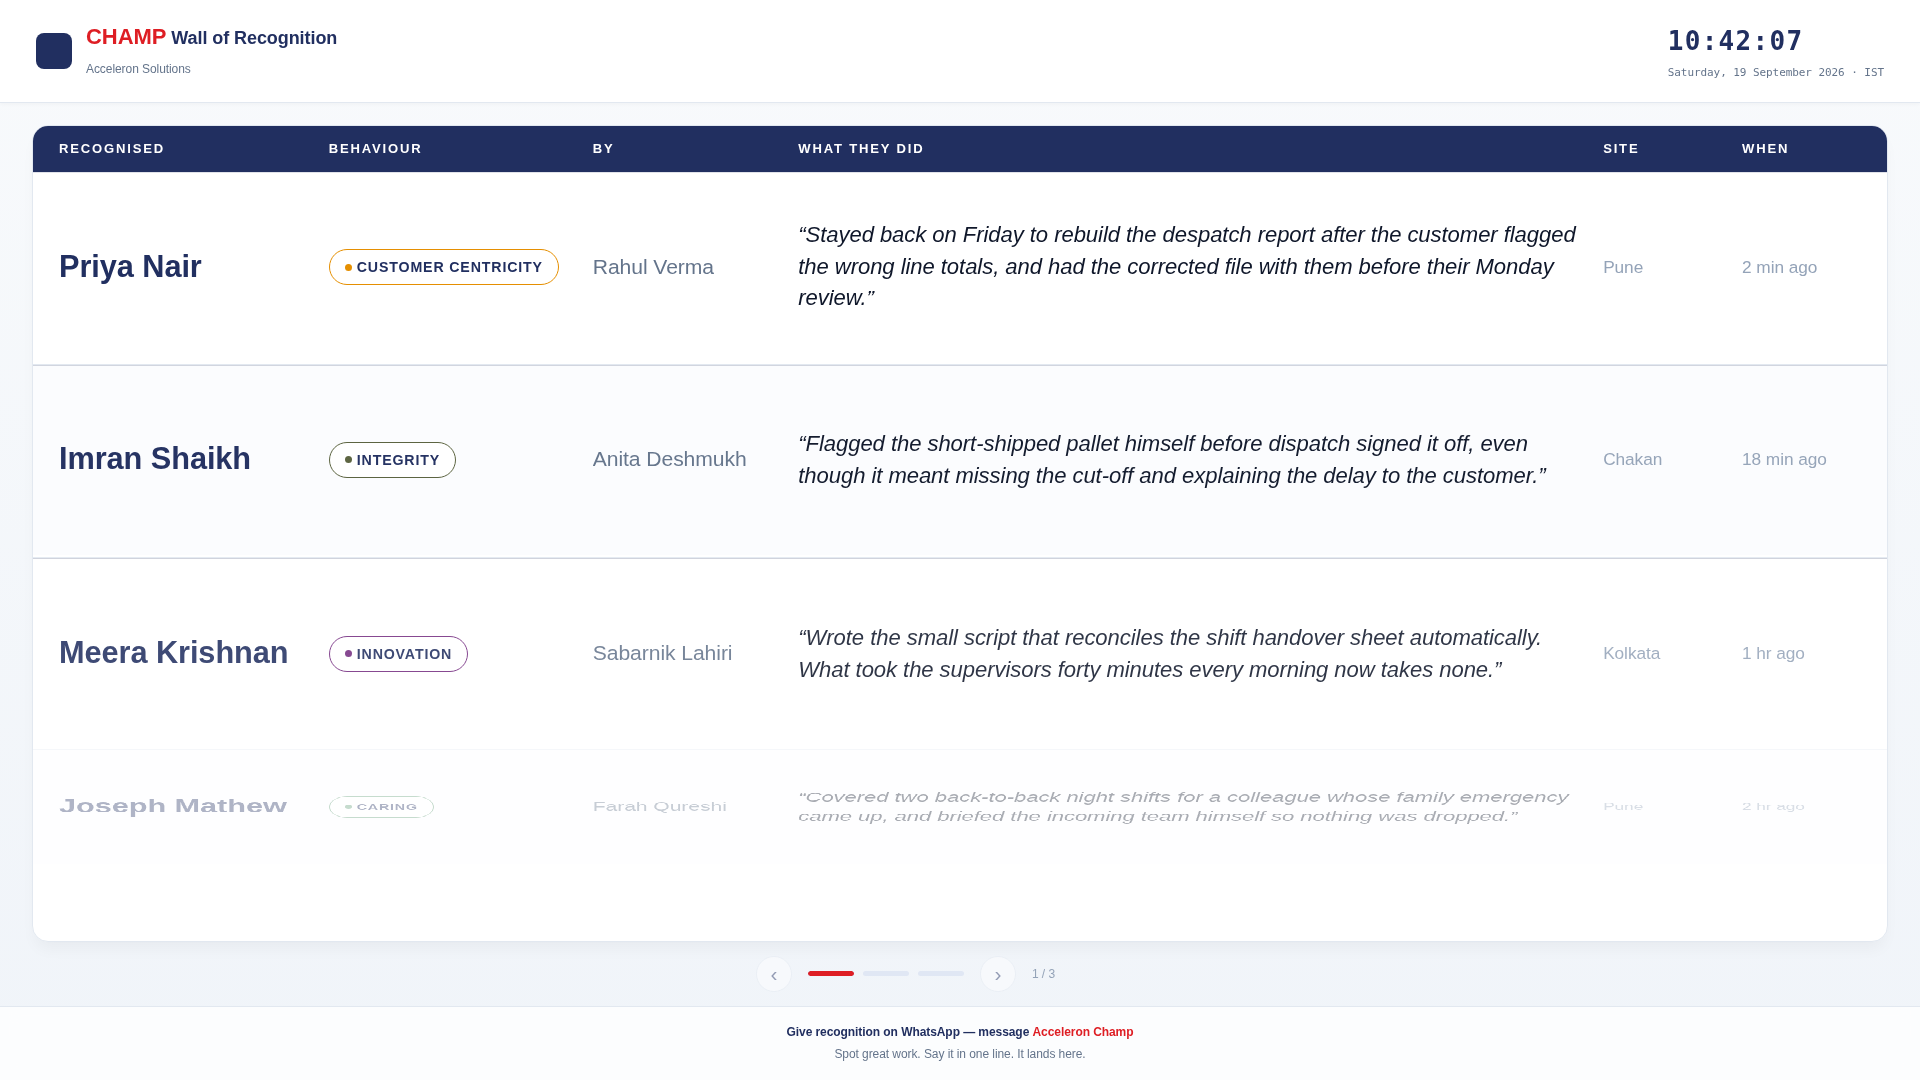
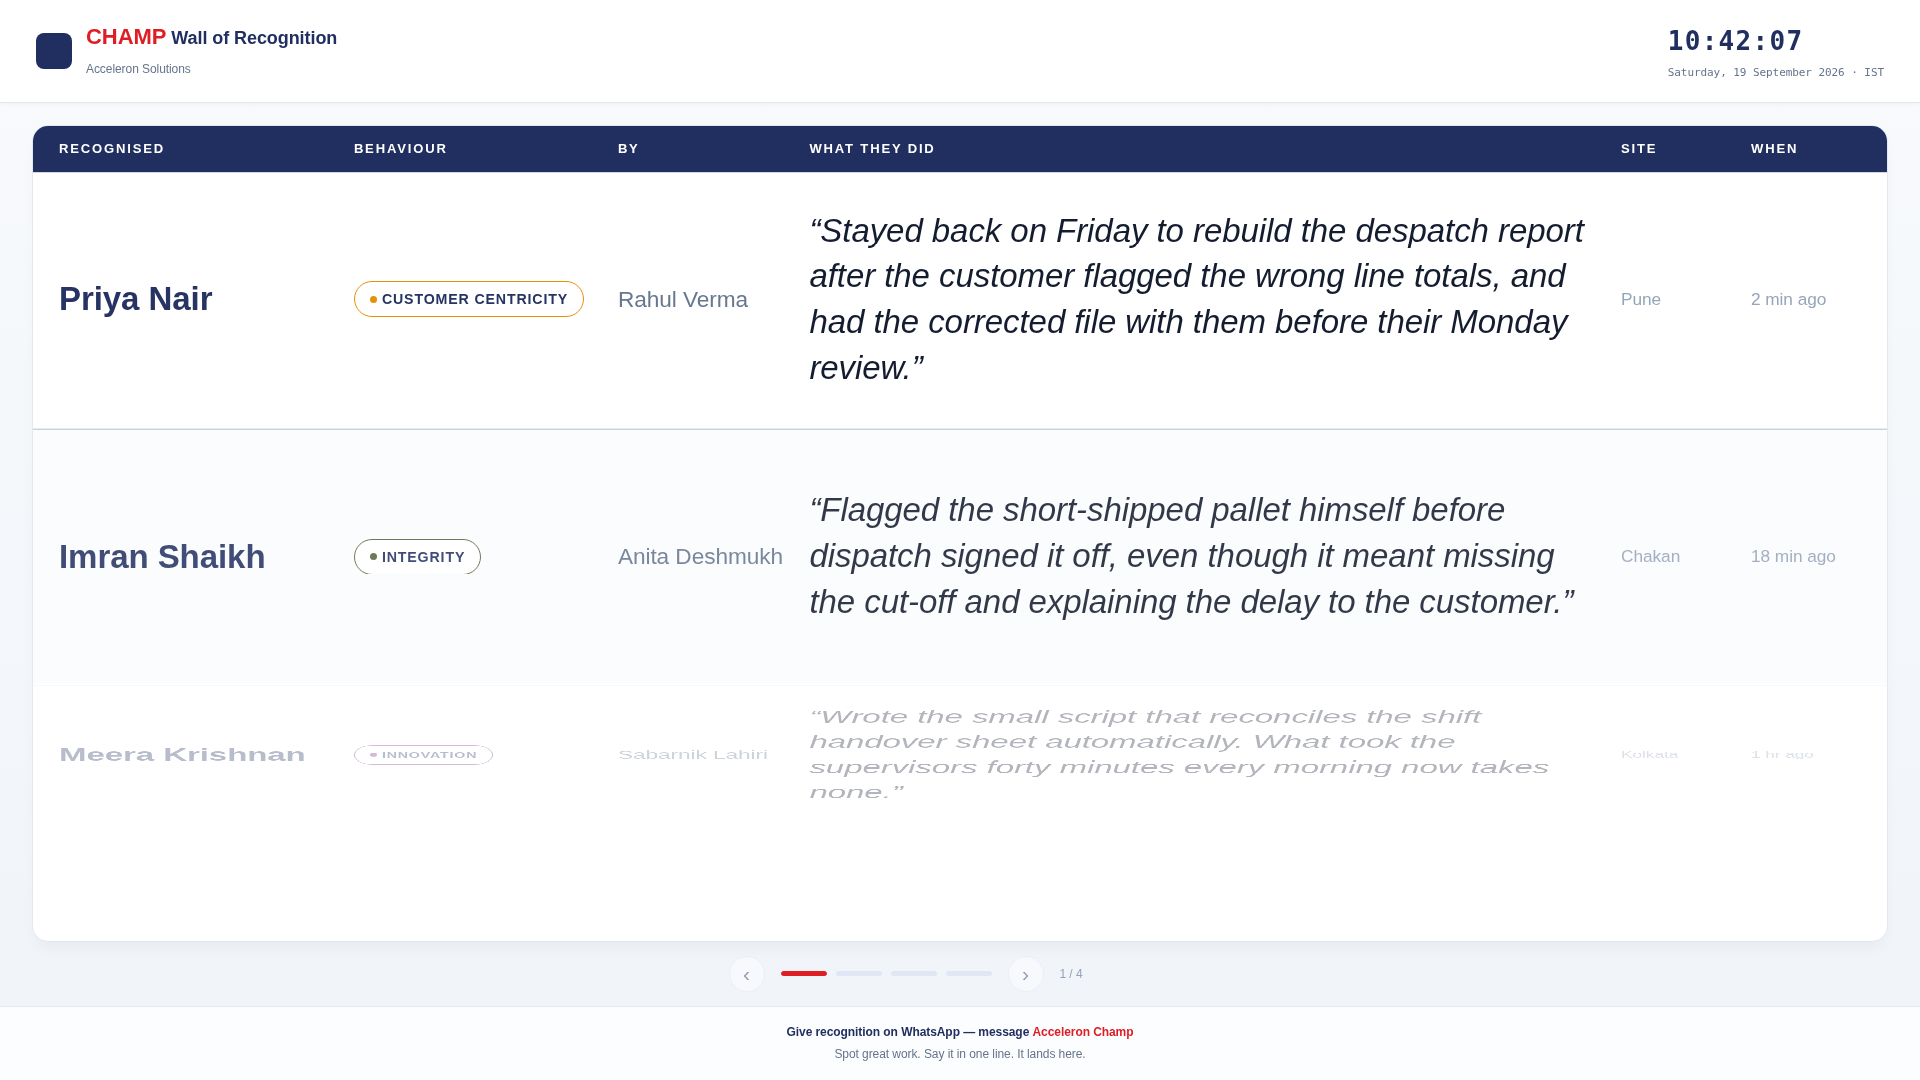
slides improved2

diff --git a/web/src/styles.css b/web/src/styles.css
@@ -2545,9 +2545,10 @@ h3 { font-size: 15px; font-weight: 600; }
 /* ═══════════════════════════════════════════════════════════════════════════
    Wall of Recognition — departure board (FR-18)
 
-   A row list under a fixed column strip, four rows to a page, turning over on
-   a timer. Four rather than six because the row height is what sets the type
-   size, and this has to be legible from the far side of a floor. The eye
+   A row list under a fixed column strip, three rows to a page, turning over
+   on a timer. Three rather than six because the row height is what sets the
+   type size, and this has to be legible from the far side of a floor — the
+   reason in particular, which is the part actually worth reading. The eye
    learns the columns once and then reads down one of them.
    ═══════════════════════════════════════════════════════════════════════════ */
 
@@ -2597,10 +2598,10 @@ h3 { font-size: 15px; font-weight: 600; }
 .board-row {
   display: grid;
   grid-template-columns:
-    minmax(190px, 1.05fr)   /* recognised */
+    minmax(230px, 1.25fr)   /* recognised */
     minmax(244px, .8fr)     /* behaviour  */
     minmax(130px, .78fr)    /* by         */
-    minmax(300px, 3.3fr)    /* what they did */
+    minmax(300px, 3.6fr)    /* what they did */
     minmax(88px, .5fr)      /* site       */
     minmax(88px, .5fr);     /* when       */
   align-items: center;
@@ -2623,7 +2624,7 @@ h3 { font-size: 15px; font-weight: 600; }
 .board-list-body {
   flex: 1;
   display: grid;
-  grid-template-rows: repeat(4, 1fr);
+  grid-template-rows: repeat(3, 1fr);
   min-height: 0;
 }
 
@@ -2676,9 +2677,11 @@ h3 { font-size: 15px; font-weight: 600; }
   overflow: hidden;
 }
 
+/* Wide enough that a two-word name stays on one line at this size — a name
+   that wraps reads as two people from a distance. */
 .bl-name {
   font-family: var(--font-heading);
-  font-size: clamp(20px, 1.6vw, 34px);
+  font-size: clamp(21px, 1.72vw, 36px);
   font-weight: 700;
   color: var(--navy-600);
   line-height: 1.2;
@@ -2711,7 +2714,7 @@ h3 { font-size: 15px; font-weight: 600; }
 }
 
 .bl-giver {
-  font-size: clamp(14px, 1.1vw, 23px);
+  font-size: clamp(14px, 1.18vw, 25px);
   font-weight: 500;
   color: var(--muted);
   white-space: nowrap;
@@ -2719,12 +2722,12 @@ h3 { font-size: 15px; font-weight: 600; }
 }
 
 .bl-reason {
-  font-size: clamp(14px, 1.15vw, 24px);
-  line-height: 1.45;
+  font-size: clamp(16px, 1.72vw, 36px);
+  line-height: 1.4;
   color: var(--ink);
   font-style: italic;
   display: -webkit-box;
-  -webkit-line-clamp: 3;
+  -webkit-line-clamp: 4;
   -webkit-box-orient: vertical;
 }
 
@@ -2797,6 +2800,26 @@ h3 { font-size: 15px; font-weight: 600; }
   font-variant-numeric: tabular-nums;
 }
 .board-show-state.paused { color: var(--brand-red); }
+
+/* ── mid-size panels ─────────────────────────────────────────────────────── */
+/* Between about 1100px and full HD the column minimums eat most of the width
+   and the reason — the part worth reading — is the one that ends up clipped.
+   Everything else gives some back. */
+@media (min-width: 1101px) and (max-width: 1500px) {
+  .board-list-head,
+  .board-row {
+    grid-template-columns:
+      minmax(196px, 1fr)
+      minmax(190px, .7fr)
+      minmax(128px, .7fr)
+      minmax(300px, 4fr)
+      minmax(74px, .45fr)
+      minmax(78px, .45fr);
+    gap: 14px;
+    padding-left: 18px;
+    padding-right: 18px;
+  }
+}
 
 /* ── narrower screens ────────────────────────────────────────────────────── */
 /* Below kiosk width this is somebody's laptop. Six columns will not fit, so

diff --git a/web/src/pages/Board.tsx b/web/src/pages/Board.tsx
@@ -2,7 +2,7 @@
  * / — login-free plant kiosk (FR-18), the CHAMP Wall of Recognition.
  *
  * Laid out as a DEPARTURE BOARD: one recognition per row under a fixed column
- * strip, four rows to a page, turning over every 15 s. A row list beats a card
+ * strip, three rows to a page, turning over every 15 s. A row list beats a card
  * grid here for the reason airports use one — the eye learns the columns once
  * and after that reads down a single column to find what it wants, instead of
  * re-parsing a layout in every tile.
@@ -17,7 +17,7 @@
  *     fresh list, and if the page index were left alone a new arrival would
  *     shunt everyone one place along mid-page. Pages are therefore keyed by
  *     the id of their first row, and after a reload the index is moved to
- *     wherever that key landed — the viewer keeps reading the same four.
+ *     wherever that key landed — the viewer keeps reading the same three.
  *   · nobody being there to fix it. No buttons are required: the board turns
  *     over on its own, and the arrow keys, space and a click are there only
  *     for the person who walks up to it.
@@ -36,9 +36,9 @@ import { formatIstClock, timeAgo } from '../format'
 import type { FeedItem } from '../types'
 
 const REFRESH_MS = 20_000
-/** Rows to a page. Four is what keeps the type big enough to read from the
- *  far side of a floor; twelve items then make three pages. */
-const PER_PAGE = 4
+/** Rows to a page. Three is what keeps the type big enough to read from the
+ *  far side of a floor; twelve items then make four pages. */
+const PER_PAGE = 3
 /** How long a page holds before it turns over. */
 const PAGE_MS = 15_000
 /** How long the board pauses after somebody touches it. */
